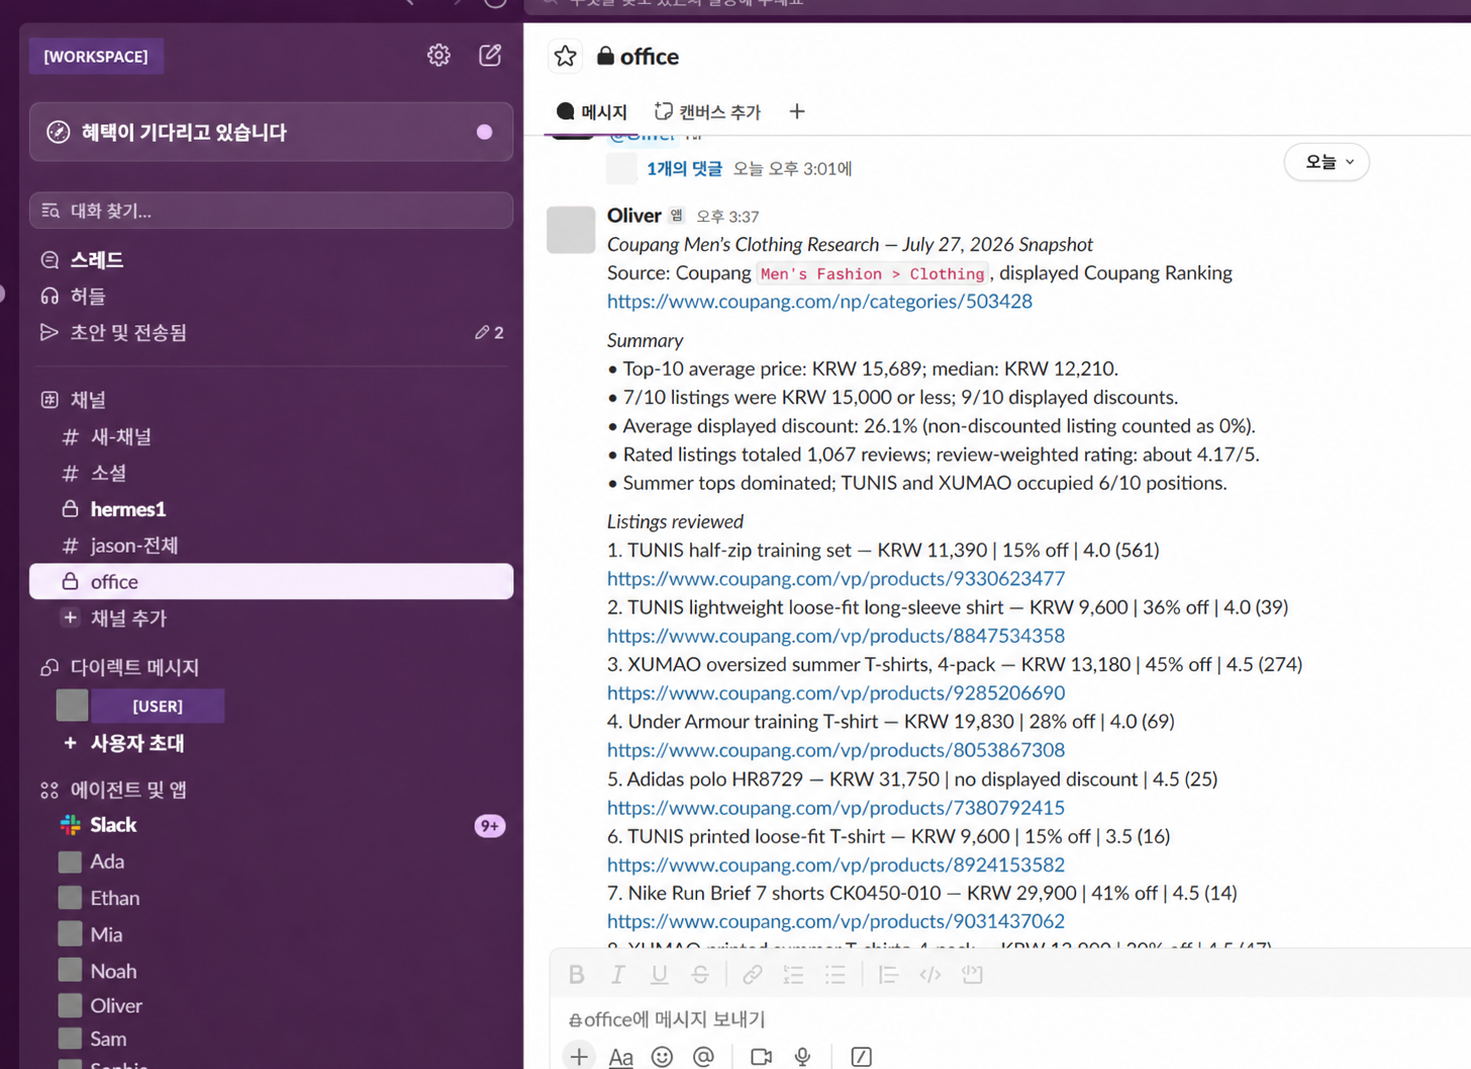
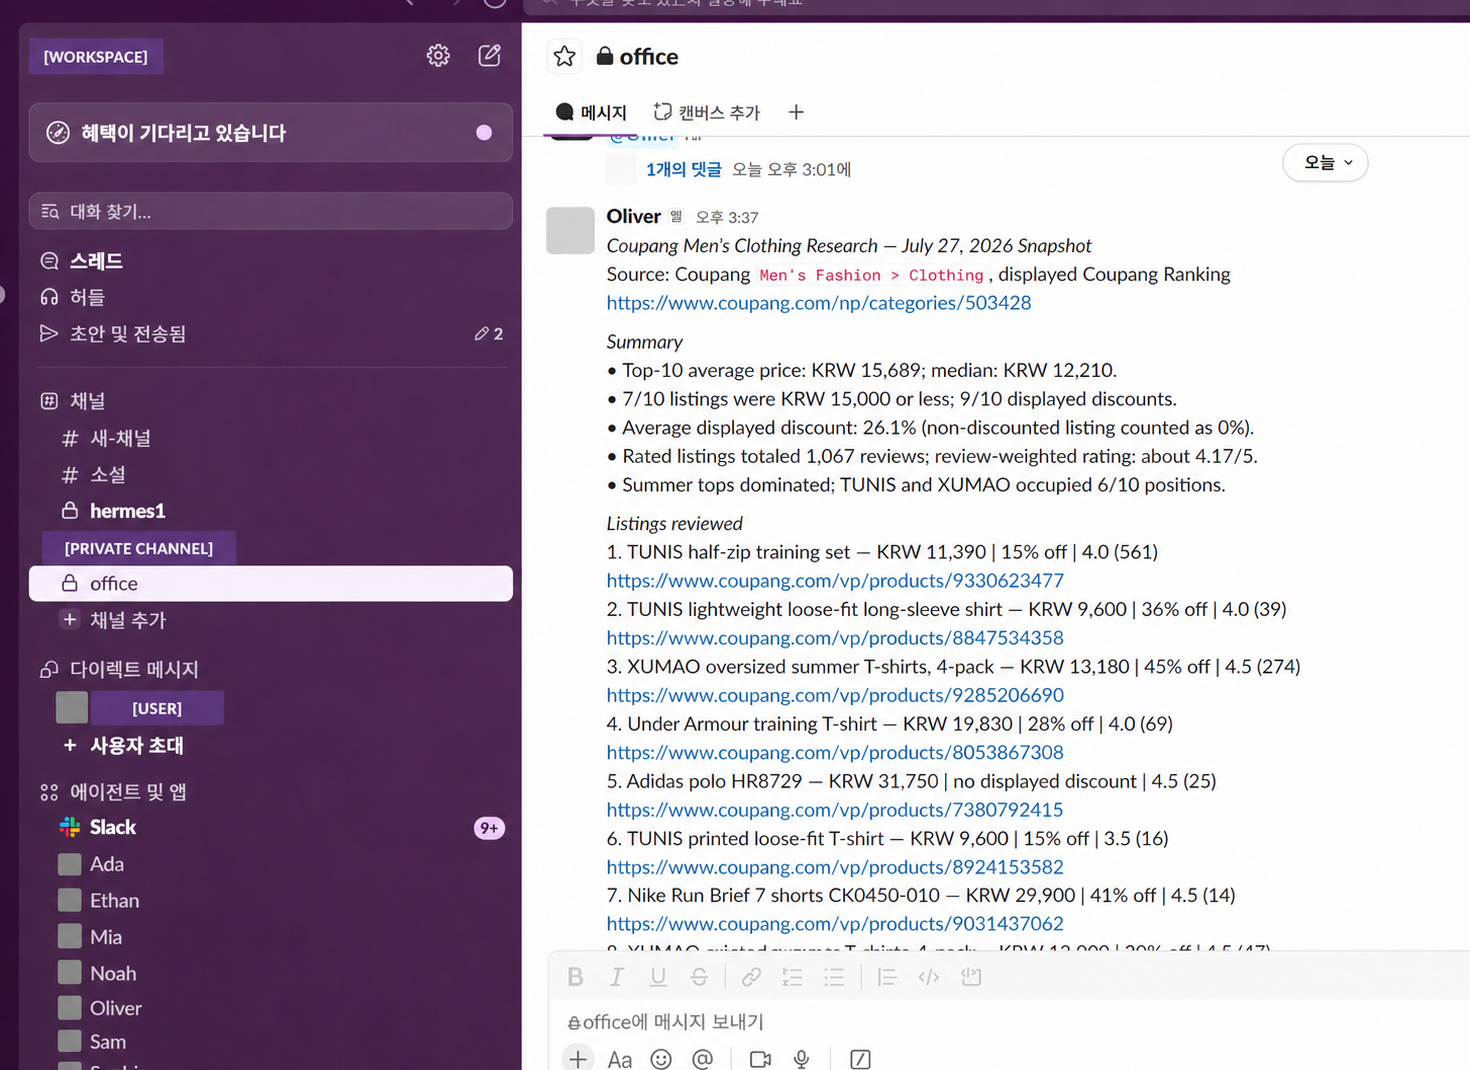
Document Docker profiles, SOUL policies, skills, and Slack work

diff --git a/README.md b/README.md
@@ -30,9 +30,35 @@ The public repository adds the missing engineering layer: deterministic data val
 
 ## Operational evidence
 
-The following images are sanitized derivatives of the live deployment. They support the operational claims, but are not presented as forensic originals. Identity fields and local paths are masked; free-form profile descriptions are normalized to concise public role labels. The underlying originals remain private and are linked to this case study by SHA-256 digest in the [evidence register](docs/evidence/evidence-register.md).
+The following evidence is organized by implementation layer: Docker profiles, Slack access controls, `SOUL.md` role policies, Skills, MCP, and live Slack work. The images are privacy-sanitized derivatives, not forensic originals. The underlying originals remain private and are linked to this case study by SHA-256 digest in the [evidence register](docs/evidence/evidence-register.md).
+
+### Dockerized multi-profile runtime
 
 ![Sanitized Hermes profile registry showing the role-based deployment](assets/evidence/01-hermes-profile-registry-sanitized.png)
+
+The runtime registry shows seven named specialist profiles with active gateways inside the Hermes deployment. Local paths and the account avatar are masked; free-form descriptions are normalized to public role labels.
+
+![Read-only Docker check of per-profile Slack configuration](assets/evidence/05-docker-slack-profile-isolation-sanitized.png)
+
+The read-only command executes inside `hermes-docker` and reports configuration presence without printing credential values. All seven profiles report bot/app configuration and an explicit user allowlist; open access is not configured. This supports profile-specific Slack configuration, but does not prove that the underlying token values are unique.
+
+### `SOUL.md` role-policy separation
+
+![Read-only metadata evidence for profile-specific SOUL.md files](assets/evidence/07-soul-policy-files-sanitized.png)
+
+Each live profile has a `SOUL.md` file, and all seven files have distinct SHA-256 prefixes. No policy body is published. The digests support separate policy artifacts; the public behavioral contracts are documented in [`config/agents.json`](config/agents.json), and enforcement remains a runtime claim rather than something the hashes alone can prove.
+
+### Skills and MCP integration
+
+![Sanitized Hermes third-party skill installation and security scan](assets/evidence/06-skill-installation-sanitized.png)
+
+The Skills workflow quarantines a third-party package, records source provenance, runs the Hermes security scan, shows the human confirmation step, and installs the reviewed files into the Oliver profile. A `SAFE` verdict is evidence of the recorded scan result, not a guarantee that third-party code is risk-free.
+
+![Hermes MCP configuration with the credential value fully redacted](assets/evidence/04-mcp-integration-token-redacted.png)
+
+The MCP screen shows the data-access integration surface used by the research workflow. The original credential value is completely covered by an opaque white mask. The live Slack report below is the separate evidence that a public-source research task produced a business result.
+
+### Slack execution
 
 <table>
   <tr>
@@ -45,7 +71,11 @@ The following images are sanitized derivatives of the live deployment. They supp
   </tr>
 </table>
 
-The redacted MCP configuration view and detailed claim boundaries are documented in [docs/evidence/mcp-integration.md](docs/evidence/mcp-integration.md), [docs/evidence/multi-agent-slack.md](docs/evidence/multi-agent-slack.md), [docs/evidence/runtime-evidence.md](docs/evidence/runtime-evidence.md), and [docs/evidence/live-workload.md](docs/evidence/live-workload.md).
+![Sanitized Slack trace of Mia using role-specific skills and tools for presentation work](assets/evidence/08-slack-specialist-work-sanitized.png)
+
+The two work captures show different specialists used for different assignments: Oliver for public-source market research and Mia for presentation generation with role-specific Skills and tools. They demonstrate multi-profile use in real Slack work; they do not establish autonomous agent-to-agent delegation.
+
+Detailed evidence and claim boundaries: [Docker/Slack isolation](docs/evidence/docker-slack-isolation.md), [`SOUL.md` policy files](docs/evidence/soul-policy-files.md), [Skills supply chain](docs/evidence/skills-supply-chain.md), [MCP integration](docs/evidence/mcp-integration.md), [multi-agent Slack](docs/evidence/multi-agent-slack.md), [runtime metadata](docs/evidence/runtime-evidence.md), and [live workload](docs/evidence/live-workload.md).
 
 ## Architecture
 
@@ -189,7 +219,7 @@ Current deterministic benchmark results are recorded in [`docs/evaluation.md`](d
 
 ## Privacy-preserving evidence policy
 
-Raw screenshots are not evidence-safe: they can contain workspace labels, user display names, local paths, application IDs, or private operational context. Only four reviewed derivatives are committed. Redaction uses opaque masks rather than blur, and each public derivative has its own SHA-256 digest in [`docs/evidence/evidence-register.md`](docs/evidence/evidence-register.md).
+Raw screenshots are not evidence-safe: they can contain workspace labels, user display names, local paths, application IDs, or private operational context. Only eight reviewed derivatives are committed. Redaction uses opaque masks rather than blur, and each public derivative has its own SHA-256 digest in [`docs/evidence/evidence-register.md`](docs/evidence/evidence-register.md).
 
 One supplied screenshot exposed an authentication token in a URL. The committed derivative covers the full credential value with an opaque white mask; the original is excluded from the repository and evidence chain. Redaction does not invalidate a leaked credential, so revocation and reissuance remain required.
 

diff --git a/docs/evidence/evidence-register.md b/docs/evidence/evidence-register.md
@@ -11,6 +11,8 @@ Original digests allow the owner to show during a controlled interview that a pr
[5 lines of base64/hex data omitted]
 
 ## Published derivatives
 
@@ -18,8 +20,12 @@ Original digests allow the owner to show during a controlled interview that a pr
 |---|---|---|---:|---|
[9 lines of base64/hex data omitted]
 
 ## Explicit exclusions
 

diff --git a/assets/evidence/README.md b/assets/evidence/README.md
@@ -6,8 +6,12 @@ These files are privacy-sanitized derivatives prepared for the public portfolio.
 |---|---|---|
 | `01-hermes-profile-registry-sanitized.png` | Deployment overview | local paths and account avatar masked; role descriptions normalized |
 | `02-slack-multi-agent-sanitized.png` | Multi-profile Slack availability | requester name and avatar masked |
-| `03-live-market-research-sanitized.png` | Real business workload | workspace and requester identity masked |
+| `03-live-market-research-sanitized.png` | Real business workload | workspace, requester identity, and private channel label masked |
 | `04-mcp-integration-token-redacted.png` | MCP configuration surface | full token value covered by an opaque white mask; account avatar masked |
+| `05-docker-slack-profile-isolation-sanitized.png` | Docker/per-profile Slack configuration | personal host prompt replaced; no credential values displayed |
+| `06-skill-installation-sanitized.png` | Skills provenance and scan workflow | personal shell prompt replaced |
+| `07-soul-policy-files-sanitized.png` | Profile-specific policy metadata | generated from read-only collector output; no policy body displayed |
+| `08-slack-specialist-work-sanitized.png` | Specialist presentation task in Slack | requester identity and personal paths masked |
 
 Binary images require manual visual review. The repository privacy scanner does not claim OCR coverage.
 

diff --git a/docs/evidence/docker-slack-isolation.md b/docs/evidence/docker-slack-isolation.md
@@ -1,0 +1,22 @@
+# Docker and per-profile Slack configuration
+
+![Read-only Docker check of per-profile Slack configuration](../../assets/evidence/05-docker-slack-profile-isolation-sanitized.png)
+
+## Supported claim
+
+The check ran inside the `hermes-docker` container and inspected configuration presence for Ada, Ethan, Mia, Noah, Oliver, Sam, and Sophie. Every profile reported:
+
+- Slack bot configuration present;
+- Slack app configuration present;
+- a user allowlist configured;
+- no open-access flag configured.
+
+The command intentionally reports only `set`, `configured`, or `not_configured`; it does not print credential or user-ID values.
+
+## Boundary
+
+This evidence supports seven profile-specific configuration paths in one Docker runtime. It does not prove that token values are unique, valid, or currently accepted by Slack. The profile registry and Slack work captures provide the separate runtime and delivery evidence.
+
+## Sanitization
+
+The personal host prompt was replaced with `[HOST]$`. No credential value was present in the source or derivative.

diff --git a/docs/evidence/skills-supply-chain.md b/docs/evidence/skills-supply-chain.md
@@ -1,0 +1,15 @@
+# Skills and supply-chain evidence
+
+![Sanitized Hermes skill-installation trace](../../assets/evidence/06-skill-installation-sanitized.png)
+
+## Supported claim
+
+The Hermes Skills workflow fetched a third-party `brightdata-guide` skill, placed it in quarantine, recorded upstream provenance and a source hash, ran the configured security scanner, required confirmation, and installed `SKILL.md` plus its reference files into the Oliver profile.
+
+## Boundary
+
+The screenshot records a `SAFE` scanner verdict and `ALLOWED` decision at that point in time. Automated scanning cannot guarantee that external instructions or scripts are risk-free. Production use should additionally pin an immutable source revision, review installed files, and re-scan changes.
+
+## Sanitization
+
+The personal shell prompt was replaced with `[HOST]$`. Public upstream URLs and the recorded source hash remain visible because they support provenance review.

diff --git a/docs/evidence/soul-policy-files.md b/docs/evidence/soul-policy-files.md
@@ -1,0 +1,17 @@
+# Profile-specific `SOUL.md` policy files
+
+![Sanitized collector output for seven SOUL.md files](../../assets/evidence/07-soul-policy-files-sanitized.png)
+
+## Collection method
+
+A read-only Docker command checked the file size and SHA-256 digest of each profile's `SOUL.md`. It did not print file contents, inspect credentials, or modify the container.
+
+## Supported claim
+
+- all seven specialist profiles have a `SOUL.md` policy file;
+- all seven recorded digest prefixes are distinct;
+- the policy artifacts are therefore not one identical file copied across every role at the time of collection.
+
+## Boundary
+
+Hashes establish file identity, not behavioral enforcement. The private policy bodies remain outside the repository. [`config/agents.json`](../../config/agents.json) is the public, machine-readable contract derived for portfolio review; it is not presented as a byte-for-byte copy of the private `SOUL.md` files.

diff --git a/docs/evidence/live-workload.md b/docs/evidence/live-workload.md
@@ -2,7 +2,7 @@
 
 ![Privacy-sanitized market-research result in Slack](../../assets/evidence/03-live-market-research-sanitized.png)
 
-Workspace and requester identity fields are covered with opaque masks. The visible business result and public source links are retained as workload evidence.
+Workspace, requester identity, and private channel fields are covered with opaque masks. The visible business result and public source links are retained as workload evidence.
 
 ## Business question
 
